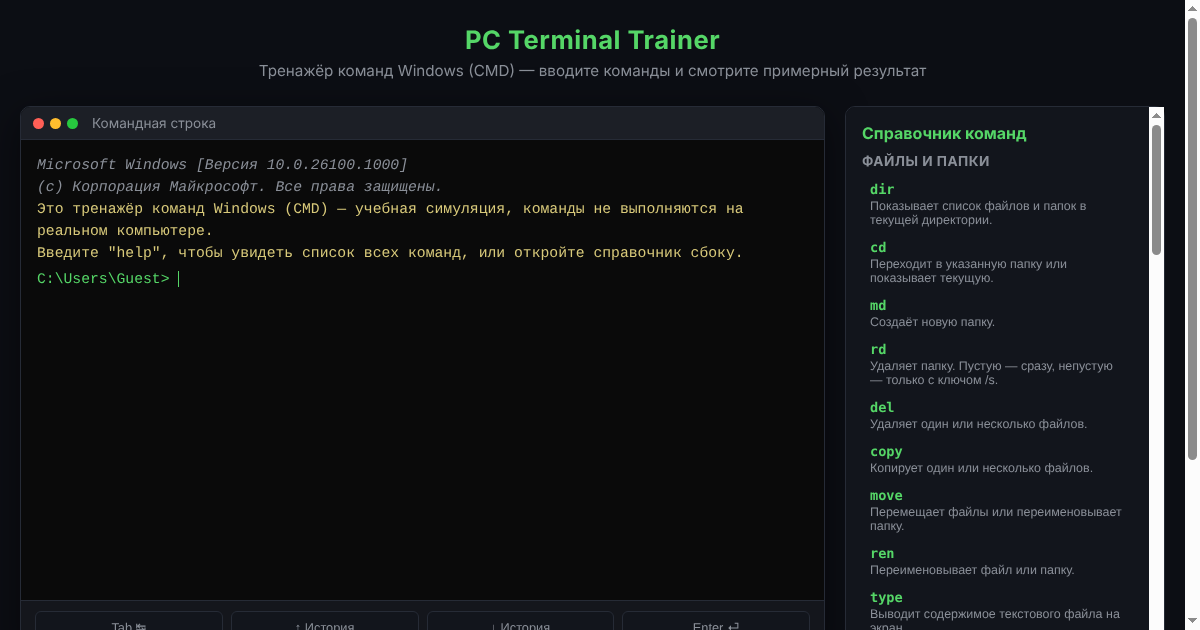
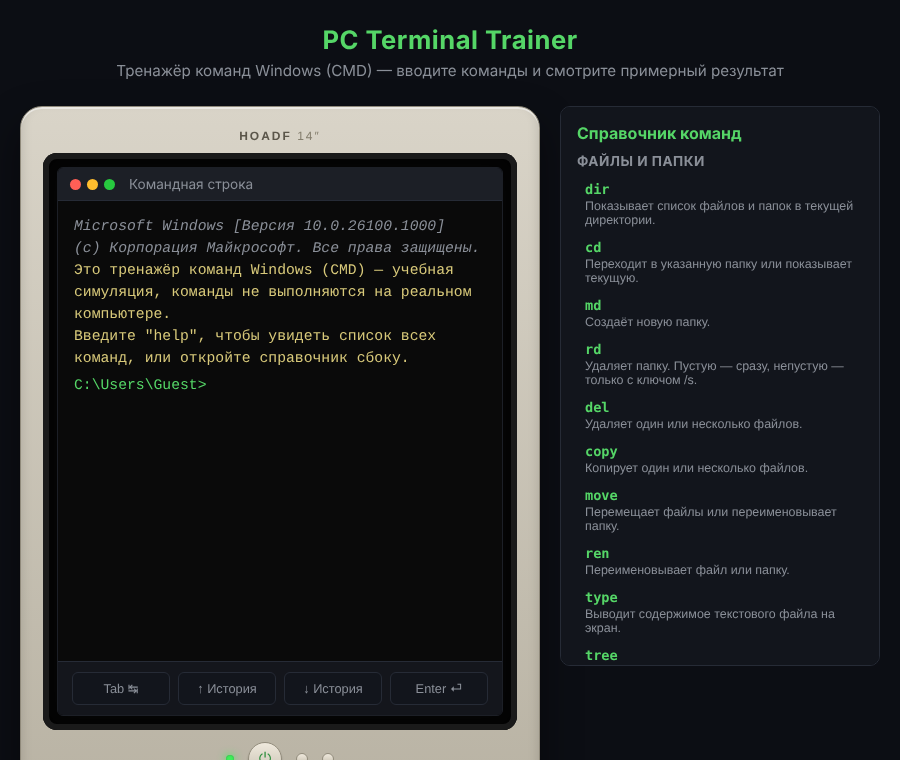
добавлен корпус старого монитора с эффектом включения
Терминал теперь внутри корпуса ретро-монитора (бежевый пластик,
кнопка питания, индикатор, декоративные ручки). При нажатии кнопки —
вспышка/схлопывание линии как при включении ЭЛТ-монитора, затем
строки загрузки BIOS, и только после этого появляется обычный
терминал с приглашением. Повторное нажатие выключает монитор.
Поле ввода заблокировано, пока монитор выключен.

Claude-Session: https://claude.ai/code/session_01HxEXpqgfVWxJpmSuPHHxKg

Changed region(s): [[0.0, 0.0, 1.0, 1.0]]

diff --git a/index.html b/index.html
@@ -30,30 +30,55 @@
 
     <main class="layout">
         <section class="terminal-wrap">
-            <div class="terminal-window">
-                <div class="terminal-titlebar">
-                    <div class="tb-dots">
-                        <span class="dot dot-red"></span>
-                        <span class="dot dot-yellow"></span>
-                        <span class="dot dot-green"></span>
+            <div class="crt-monitor crt-off" id="crt-monitor">
+                <div class="crt-bezel">
+                    <div class="crt-brand">HOADF <span>14&Prime;</span></div>
+
+                    <div class="crt-screen">
+                        <div class="crt-flash" id="crt-flash"></div>
+
+                        <div class="crt-off-overlay" id="crt-off-overlay">
+                            <button type="button" id="power-btn-overlay" class="power-btn-overlay">
+                                ⏻ Включить монитор
+                            </button>
+                        </div>
+
+                        <div class="terminal-window">
+                            <div class="terminal-titlebar">
+                                <div class="tb-dots">
+                                    <span class="dot dot-red"></span>
+                                    <span class="dot dot-yellow"></span>
+                                    <span class="dot dot-green"></span>
+                                </div>
+                                <span class="tb-title">Командная строка</span>
+                            </div>
+                            <div class="terminal-body" id="terminal-body">
+                                <div class="terminal-output" id="terminal-output"></div>
+                                <div class="terminal-input-line">
+                                    <span class="prompt" id="prompt-text">C:\Users\Guest&gt;</span>
+                                    <input type="text" id="terminal-input" class="terminal-input" autocomplete="off" autocapitalize="off" autocorrect="off" spellcheck="false" aria-label="Введите команду" disabled>
+                                </div>
+                            </div>
+                            <div class="terminal-controls">
+                                <button type="button" data-action="tab">Tab ↹</button>
+                                <button type="button" data-action="up">↑ История</button>
+                                <button type="button" data-action="down">↓ История</button>
+                                <button type="button" data-action="enter">Enter ⏎</button>
+                            </div>
+                        </div>
                     </div>
-                    <span class="tb-title">Командная строка</span>
-                </div>
-                <div class="terminal-body" id="terminal-body">
-                    <div class="terminal-output" id="terminal-output"></div>
-                    <div class="terminal-input-line">
-                        <span class="prompt" id="prompt-text">C:\Users\Guest&gt;</span>
-                        <input type="text" id="terminal-input" class="terminal-input" autocomplete="off" autocapitalize="off" autocorrect="off" spellcheck="false" aria-label="Введите команду">
+
+                    <div class="crt-panel">
+                        <span class="crt-led" id="crt-led"></span>
+                        <button type="button" id="power-btn" class="power-btn" aria-label="Включить/выключить монитор" aria-pressed="false">⏻</button>
+                        <span class="crt-knob"></span>
+                        <span class="crt-knob"></span>
                     </div>
                 </div>
-                <div class="terminal-controls">
-                    <button type="button" data-action="tab">Tab ↹</button>
-                    <button type="button" data-action="up">↑ История</button>
-                    <button type="button" data-action="down">↓ История</button>
-                    <button type="button" data-action="enter">Enter ⏎</button>
-                </div>
+                <div class="crt-stand"></div>
+                <div class="crt-stand-base"></div>
             </div>
-            <p class="hint-line">Введите <code>help</code>, чтобы увидеть список всех команд, или начните печатать — появятся подсказки. Tab — автодополнение, ↑/↓ — история команд.</p>
+            <p class="hint-line">Нажмите кнопку питания, чтобы включить монитор. Потом введите <code>help</code>, чтобы увидеть список всех команд, или начните печатать — появятся подсказки. Tab — автодополнение, ↑/↓ — история команд.</p>
         </section>
 
         <aside class="ref-panel" id="ref-panel">

diff --git a/style.css b/style.css
@@ -68,6 +68,189 @@ html, body {
     min-width: 0;
 }
 
+/* ---------- Старый монитор (корпус вокруг терминала) ---------- */
+
+.crt-monitor {
+    max-width: 760px;
+    margin: 0 auto;
+}
+
+.crt-bezel {
+    background: linear-gradient(180deg, #d9d4c8, #b9b3a4);
+    border-radius: 22px;
+    padding: 22px 22px 14px;
+    box-shadow:
+        0 18px 40px rgba(0,0,0,0.45),
+        inset 0 2px 0 rgba(255,255,255,0.5),
+        inset 0 -6px 12px rgba(0,0,0,0.15);
+    border: 1px solid #8f897a;
+}
+
+.crt-brand {
+    text-align: center;
+    font-family: "Trebuchet MS", Arial, sans-serif;
+    font-weight: 700;
+    letter-spacing: 2px;
+    color: #5b564a;
+    font-size: 0.75rem;
+    margin-bottom: 10px;
+    text-transform: uppercase;
+}
+
+.crt-brand span {
+    font-weight: 400;
+    color: #847e6d;
+}
+
+.crt-screen {
+    position: relative;
+    background: #050505;
+    border-radius: 14px;
+    padding: 14px;
+    box-shadow:
+        inset 0 0 0 6px #1a1a1a,
+        inset 0 0 30px rgba(0,0,0,0.9);
+    overflow: hidden;
+}
+
+.crt-screen .terminal-window {
+    border-radius: 6px;
+    box-shadow: none;
+    border: 1px solid #1c1f26;
+}
+
+.crt-off-overlay {
+    position: absolute;
+    inset: 14px;
+    z-index: 5;
+    display: flex;
+    align-items: center;
+    justify-content: center;
+    background: #000;
+    border-radius: 6px;
+    transition: opacity 0.25s ease;
+}
+
+.power-btn-overlay {
+    background: #15181f;
+    border: 1px solid #2a2f3a;
+    color: var(--muted);
+    padding: 12px 20px;
+    border-radius: 8px;
+    font-size: 0.95rem;
+    cursor: pointer;
+}
+
+.power-btn-overlay:hover {
+    color: var(--accent);
+    border-color: var(--accent-soft);
+}
+
+.crt-flash {
+    position: absolute;
+    inset: 14px;
+    z-index: 6;
+    background: #fff;
+    border-radius: 6px;
+    opacity: 0;
+    pointer-events: none;
+    transform: scaleY(0.02);
+}
+
+.crt-flash.playing {
+    animation: crt-power-on 0.55s ease-out forwards;
+}
+
+@keyframes crt-power-on {
+    0%   { opacity: 1; transform: scaleY(0.02); background: #fff; }
+    35%  { opacity: 1; transform: scaleY(0.04); background: #fff; }
+    55%  { opacity: 0.9; transform: scaleY(1); background: #dfffe8; }
+    75%  { opacity: 0.4; transform: scaleY(1); }
+    100% { opacity: 0; transform: scaleY(1); }
+}
+
+.crt-monitor.crt-on .crt-off-overlay {
+    opacity: 0;
+    pointer-events: none;
+}
+
+.crt-panel {
+    display: flex;
+    align-items: center;
+    justify-content: center;
+    gap: 14px;
+    padding: 12px 0 4px;
+}
+
+.crt-led {
+    width: 8px;
+    height: 8px;
+    border-radius: 50%;
+    background: #5a1414;
+    box-shadow: inset 0 0 2px rgba(0,0,0,0.6);
+    transition: background 0.2s, box-shadow 0.2s;
+}
+
+.crt-monitor.crt-on .crt-led {
+    background: #3fef5a;
+    box-shadow: 0 0 8px #3fef5a, inset 0 0 2px rgba(0,0,0,0.3);
+}
+
+.power-btn {
+    width: 34px;
+    height: 34px;
+    border-radius: 50%;
+    background: linear-gradient(180deg, #efe9dd, #c7c0b0);
+    border: 1px solid #938d7d;
+    color: #5b564a;
+    font-size: 1rem;
+    cursor: pointer;
+    display: flex;
+    align-items: center;
+    justify-content: center;
+    box-shadow: 0 2px 2px rgba(0,0,0,0.25);
+}
+
+.power-btn:active {
+    box-shadow: inset 0 2px 3px rgba(0,0,0,0.3);
+}
+
+.crt-monitor.crt-on .power-btn {
+    color: var(--accent-soft);
+}
+
+.crt-knob {
+    width: 12px;
+    height: 12px;
+    border-radius: 50%;
+    background: linear-gradient(180deg, #efe9dd, #c7c0b0);
+    border: 1px solid #938d7d;
+}
+
+.crt-stand {
+    width: 90px;
+    height: 24px;
+    margin: 0 auto;
+    background: linear-gradient(180deg, #c7c0b0, #a39c8c);
+    clip-path: polygon(20% 0, 80% 0, 100% 100%, 0% 100%);
+}
+
+.crt-stand-base {
+    width: 170px;
+    height: 12px;
+    margin: 0 auto;
+    background: #a39c8c;
+    border-radius: 6px;
+    box-shadow: 0 4px 10px rgba(0,0,0,0.3);
+}
+
+@media (max-width: 600px) {
+    .crt-bezel { padding: 14px 12px 10px; border-radius: 16px; }
+    .crt-brand { font-size: 0.65rem; }
+    .crt-stand { width: 64px; }
+    .crt-stand-base { width: 120px; }
+}
+
 .terminal-window {
     background: var(--term-bg);
     border-radius: 10px;

diff --git a/script.js b/script.js
@@ -275,7 +275,84 @@
         appendLine("", "line-output");
     }
 
+    // ---------- Корпус монитора: включение и загрузка ----------
+
+    const crtMonitor = document.getElementById("crt-monitor");
+    const crtFlash = document.getElementById("crt-flash");
+    const powerBtn = document.getElementById("power-btn");
+    const powerBtnOverlay = document.getElementById("power-btn-overlay");
+
+    const BOOT_LINES = [
+        "HOADF BIOS v2.6  —  Copyright (C) HOADF",
+        "Проверка видеопамяти...                OK",
+        "Проверка оперативной памяти: 640K       OK",
+        "Обнаружен накопитель: C:\\                OK",
+        "Загрузка HOADF Terminal...",
+    ];
+
+    let isOn = false;
+    let isBusy = false;
+
+    function typeBootLine(text, className, delay) {
+        return new Promise(resolve => {
+            setTimeout(() => {
+                appendLine(text, className || "line-system");
+                scrollToBottom();
+                resolve();
+            }, delay);
+        });
+    }
+
+    async function runBootSequence() {
+        output.innerHTML = "";
+        for (let i = 0; i < BOOT_LINES.length; i++) {
+            await typeBootLine(BOOT_LINES[i], "line-system", i === 0 ? 120 : 220);
+        }
+        await typeBootLine("", "line-output", 150);
+        output.innerHTML = "";
+        showWelcome();
+        input.disabled = false;
+        input.focus();
+        isBusy = false;
+    }
+
+    function turnOn() {
+        if (isOn || isBusy) return;
+        isBusy = true;
+        isOn = true;
+        crtMonitor.classList.add("crt-on");
+        crtMonitor.classList.remove("crt-off");
+        powerBtn.setAttribute("aria-pressed", "true");
+        crtFlash.classList.remove("playing");
+        // форсируем перезапуск анимации
+        void crtFlash.offsetWidth;
+        crtFlash.classList.add("playing");
+        runBootSequence();
+    }
+
+    function turnOff() {
+        if (!isOn || isBusy) return;
+        isOn = false;
+        crtMonitor.classList.remove("crt-on");
+        crtMonitor.classList.add("crt-off");
+        powerBtn.setAttribute("aria-pressed", "false");
+        crtFlash.classList.remove("playing");
+        input.disabled = true;
+        input.value = "";
+        output.innerHTML = "";
+        clearSuggest();
+    }
+
+    function togglePower() {
+        if (isOn) {
+            turnOff();
+        } else {
+            turnOn();
+        }
+    }
+
+    powerBtn.addEventListener("click", togglePower);
+    powerBtnOverlay.addEventListener("click", turnOn);
+
     buildRefPanel();
-    showWelcome();
-    input.focus();
 })();
